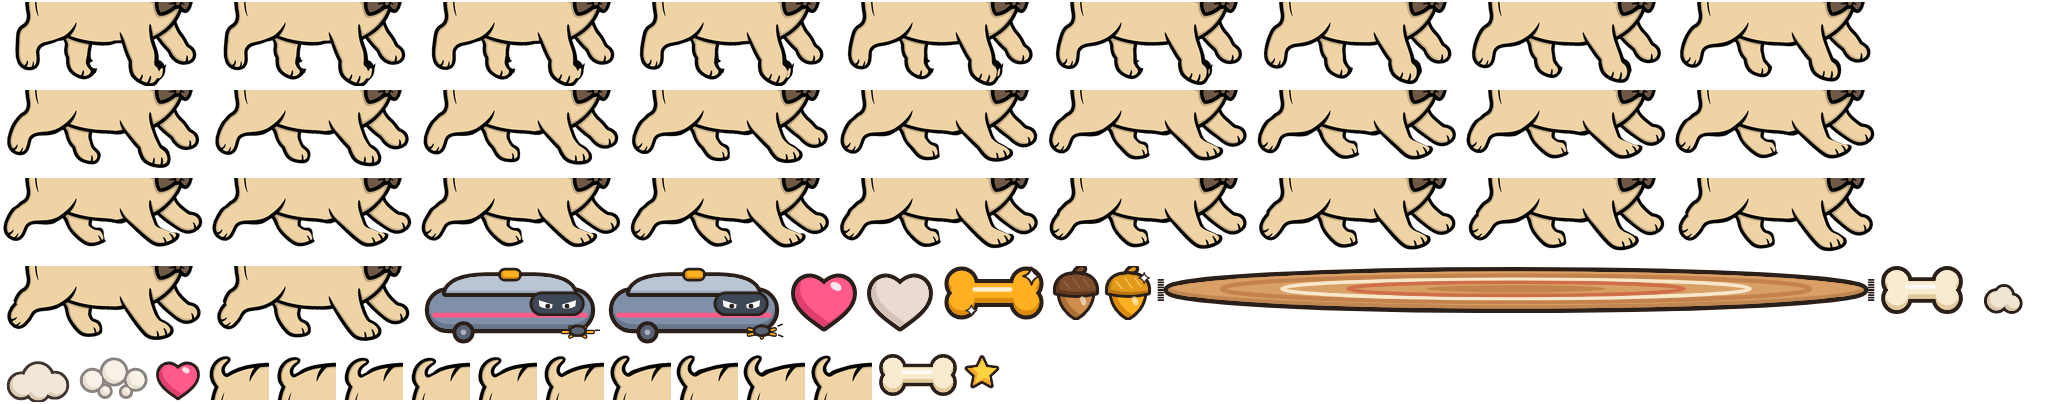
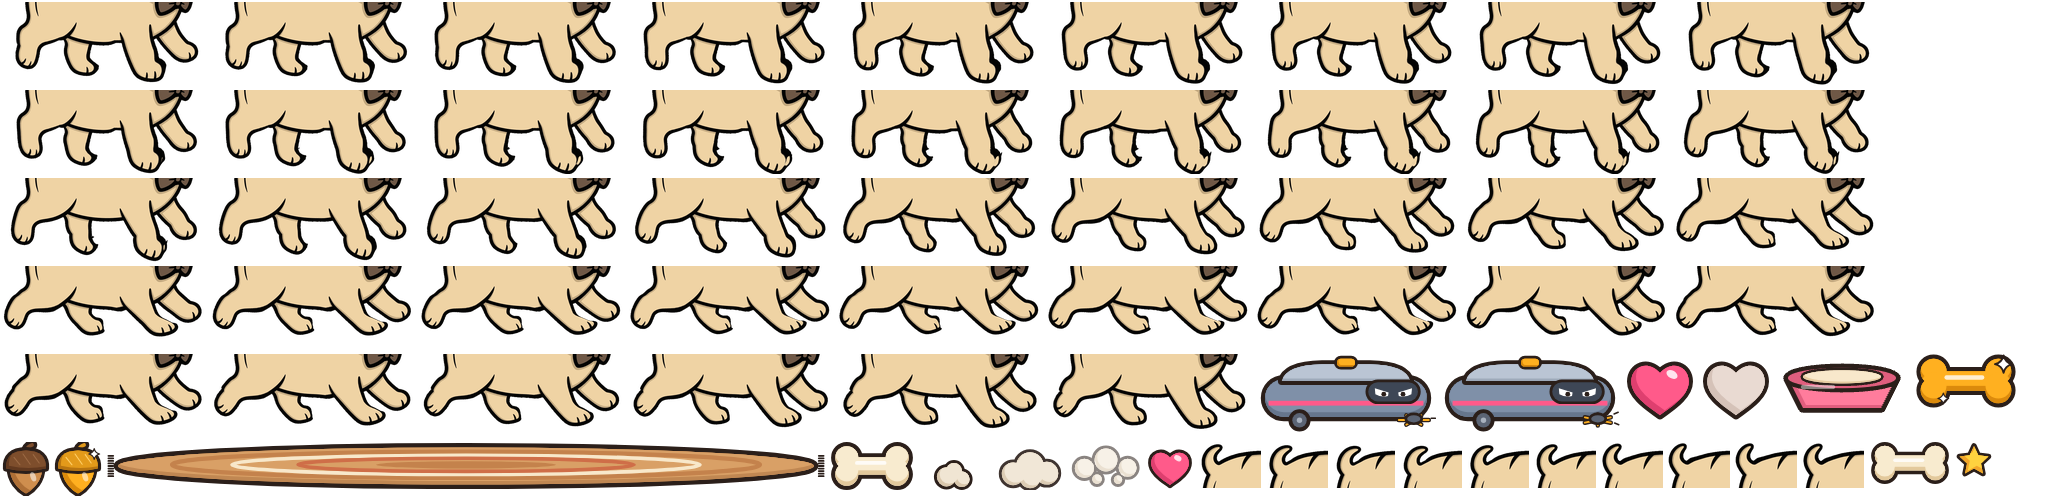
Add Chapter 2, The Kitchen, with counters, stools, a fridge to climb and Chef Nutsy.

diff --git a/tools/gen_sprites.js b/tools/gen_sprites.js
@@ -883,6 +883,71 @@ function wagon() {
   return g;
 }
 
+// ---------------------------------------------------------------- kitchen (Chapter 2)
+const K = { cab: '#5FB7A8', cabS: '#43978A', counterTop: '#F2E4C8', counterTopS: '#D9C7A2', steel: '#C9D3DC', steelS: '#A3B0BC', tile: '#F4EBDD', tileS: '#DCCDB8', tile2: '#D6B48E', bowl: '#FF7C9C', bowlS: '#E05E7E' };
+
+// A kitchen counter: a pale stone top on teal cabinets with two doors and brass knobs.
+function kitchenCounter(top) {
+  let g = '';
+  const y0 = 72 - top + X.O;
+  g += blob(R(4, y0 + 8, 152, 60, 2), K.cab, K.cabS, { O: 2.2, so: 1.8, off: [1.6, -1.8] });
+  g += `<path d="M80 ${y0 + 12} L80 ${y0 + 64}" stroke="${OUT}" stroke-width="1.6"/>`;
+  g += `<path d="M14 ${y0 + 16} L70 ${y0 + 16} L70 ${y0 + 60} L14 ${y0 + 60} Z M90 ${y0 + 16} L146 ${y0 + 16} L146 ${y0 + 60} L90 ${y0 + 60} Z" fill="none" stroke="${K.cabS}" stroke-width="1.4" stroke-linejoin="round"/>`;
+  g += blob(Ci(64, y0 + 38, 2.6), C.brass, C.brassS, { O: 1, so: 0.5 }) + blob(Ci(96, y0 + 38, 2.6), C.brass, C.brassS, { O: 1, so: 0.5 });
+  g += blob(R(0, y0, 160, 10, 3), K.counterTop, K.counterTopS, { O: 2.2, so: 1.4, off: [0, -2] });
+  g += `<path d="M10 ${y0 + 3} L80 ${y0 + 3}" stroke="${WH}" stroke-opacity="0.5" stroke-width="1.6" stroke-linecap="round"/>`;
+  return g;
+}
+
+// A wooden stool, lower than the counter: the first step up.
+function stool(top) {
+  let g = '';
+  const y0 = 60 - top + X.O;
+  g += strokes([`M12 ${y0 + 8} L8 58`, `M44 ${y0 + 8} L48 58`, `M28 ${y0 + 8} L28 58`], 4.2, C.wood, { O: 1.4 });
+  g += strokes([`M10 40 L46 40`], 2.6, C.woodS, { O: 1 });
+  g += blob(E(28, y0 + 5, 25, 5), C.wood, C.woodS, { O: 2, so: 1.2, off: [0, -1.4] });
+  g += `<path d="M14 ${y0 + 3} L36 ${y0 + 3}" stroke="${WH}" stroke-opacity="0.4" stroke-width="1.4" stroke-linecap="round"/>`;
+  return g;
+}
+
+// A tall fridge the dog cannot run through; its top is a high shelf to reach by stool and counter.
+function fridge(top) {
+  let g = '';
+  const y0 = 160 - top + X.O;
+  g += blob(R(4, y0, 82, 156, 5), K.steel, K.steelS, { O: 2.4, so: 2, off: [2, -2] });
+  g += `<path d="M8 ${y0 + 52} L82 ${y0 + 52}" stroke="${OUT}" stroke-width="1.8"/>`;
+  g += strokes([`M70 ${y0 + 14} L70 ${y0 + 42}`, `M70 ${y0 + 62} L70 ${y0 + 120}`], 3.6, K.steelS, { O: 1.2 });
+  g += `<path d="M12 ${y0 + 6} L12 ${y0 + 44}" stroke="${WH}" stroke-opacity="0.55" stroke-width="2" stroke-linecap="round"/>`;
+  // A couple of paw magnets and a party note.
+  g += blob(R(22, y0 + 70, 22, 16, 2), C.gold, C.goldS, { O: 1.2, so: 0.8 });
+  g += `<path d="M26 ${y0 + 75} L40 ${y0 + 75} M26 ${y0 + 80} L36 ${y0 + 80}" stroke="${OUT}" stroke-width="1" stroke-linecap="round"/>`;
+  g += blob(Ci(50, y0 + 96, 4), C.gum, C.gumS, { O: 1, so: 0.5 }) + blob(Ci(30, y0 + 104, 3.4), C.sky, C.skyS, { O: 1, so: 0.5 });
+  return g;
+}
+
+// The pup's bowl, a decoration on the floor.
+function dogBowl() {
+  let g = '';
+  g += blob(P('M4 8 L40 8 L35 18 L9 18 Z'), K.bowl, K.bowlS, { O: 1.6, so: 1, off: [1, -1] });
+  g += blob(E(22, 8, 18, 3.4), K.bowlS, null, { O: 1.4 });
+  g += blob(E(22, 7.6, 13, 2.2), C.cream, C.creamS, { O: 0.9, so: 0.6 });
+  g += `<path d="M9 11 L19 11" stroke="${WH}" stroke-opacity="0.45" stroke-width="1.4" stroke-linecap="round"/>`;
+  return g;
+}
+
+// Checkerboard kitchen tiles, one 128-unit strip that repeats.
+function floorKitchen() {
+  let g = blob(R(0, 0, 128, 40), K.tile, null, { O: 0 });
+  for (let i = 0; i < 4; i++) {
+    const x = i * 32;
+    g += `<rect x="${x}" y="0" width="16" height="16" fill="${K.tile2}"/><rect x="${x + 16}" y="16" width="16" height="16" fill="${K.tile2}"/>`;
+    g += `<rect x="${x}" y="32" width="16" height="8" fill="${K.tile2}"/>`;
+  }
+  g += `<path d="M0 0 L128 0" stroke="${OUT}" stroke-width="3"/>`;
+  g += `<g stroke="${K.tileS}" stroke-width="0.8">${[16, 32, 48, 64, 80, 96, 112].map((x) => `<path d="M${x} 0 L${x} 40"/>`).join('')}<path d="M0 16 L128 16 M0 32 L128 32"/></g>`;
+  return g;
+}
+
 // ---------------------------------------------------------------- registry
 const S = {};
 const add = (name, W, H, O, fn, top) => (S[name] = { W, H, O, fn, top });
@@ -935,6 +1000,11 @@ add('heart_full', 24, 22, 1.4, () => blob(P(heartPath(12, 11.6, 9.6)), C.gum, C.
 add('heart_empty', 24, 22, 1.4, () => blob(P(heartPath(12, 11.6, 9.6)), '#E9DAD2', '#D5C2B8', { so: 1.6 }));
 add('bone_icon', 28, 16, 1.4, () => bone(28, 16, false, 1.4));
 add('wagon', 96, 44, 2, () => wagon());
+add('kitchen_counter', 160, 72, 2.2, () => kitchenCounter(70), 70);
+add('stool', 56, 60, 2, () => stool(58), 58);
+add('fridge', 90, 160, 2.4, () => fridge(158), 158);
+add('dog_bowl', 44, 20, 1.6, () => dogBowl());
+add('floor_kitchen', 128, 40, 1.6, () => floorKitchen(), 40);
 
 const only = process.argv.slice(2);
 const dir = path.resolve(__dirname, '..', 'art', 'svg');

diff --git a/src/game/level/chapter2.ts b/src/game/level/chapter2.ts
@@ -1,0 +1,119 @@
+import type { LevelDef } from './types';
+
+// Chapter 2: The Kitchen.
+// The Nutsy Gang went for the party snacks next. Counters, stools and the fridge make a
+// staircase up high, the robot vacuum patrols the tiles, and the gang's cook is waiting at the end.
+//
+// Reach guide at runSpeed 320: a single jump clears about 200 units of pit and 130 high;
+// a double jump clears about 350 and 230 high. Counter tops are 70 high, stools 58, the fridge 158.
+
+const bones = (x0: number, n: number, gap: number, y = 18) =>
+  Array.from({ length: n }, (_, i) => ({ kind: 'bone' as const, x: x0 + i * gap, y }));
+
+const arc = (x0: number, n: number, gap: number, base: number, rise: number) =>
+  Array.from({ length: n }, (_, i) => {
+    const k = n === 1 ? 0.5 : i / (n - 1);
+    return { kind: 'bone' as const, x: x0 + i * gap, y: base + Math.sin(k * Math.PI) * rise };
+  });
+
+export const CHAPTER_2: LevelDef = {
+  id: 'ch2',
+  chapter: 2,
+  title: 'The Kitchen',
+  subtitle: 'Snack attack!',
+  winTitle: 'Snacks saved!',
+  background: 'room_kitchen',
+  floor: 'floor_kitchen',
+  music: 'music_living',
+  runSpeed: 320,
+  floorSegments: [
+    [-600, 1700],
+    [1880, 3500],
+    [3720, 5200],
+    [5440, 6900],
+    [7120, 20000],
+  ],
+  platforms: [
+    // Warm-up: stool, counter, stool.
+    { sprite: 'stool', x: 600 },
+    { sprite: 'kitchen_counter', x: 820 },
+    { sprite: 'stool', x: 1150 },
+    // First pit: counters on both sides.
+    { sprite: 'kitchen_counter', x: 1500 },
+    { sprite: 'kitchen_counter', x: 1920 },
+    // The fridge climb: stool, counter, fridge top with a golden bone.
+    { sprite: 'stool', x: 2500 },
+    { sprite: 'kitchen_counter', x: 2700 },
+    { sprite: 'fridge', x: 2940, solid: true },
+    { sprite: 'kitchen_counter', x: 3150 },
+    // Second pit and the vacuum run.
+    { sprite: 'stool', x: 3800 },
+    { sprite: 'kitchen_counter', x: 4300 },
+    { sprite: 'stool', x: 4700 },
+    { sprite: 'fridge', x: 4960, solid: true },
+    // Last stretch: counters and a stool before the boss.
+    { sprite: 'kitchen_counter', x: 5600 },
+    { sprite: 'stool', x: 6000 },
+    { sprite: 'kitchen_counter', x: 6300 },
+    { sprite: 'stool', x: 6700 },
+    { sprite: 'kitchen_counter', x: 7300 },
+  ],
+  enemies: [
+    { type: 'runner', x: 1300 },
+    { type: 'thrower', x: 1990, y: 70, every: 1.7 },
+    { type: 'runner', x: 2300, speed: 120 },
+    { type: 'cat', x: 2755, y: 70 },
+    { type: 'runner', x: 3300, speed: 140 },
+    { type: 'vacuum', x0: 3900, x1: 4250, speed: 100 },
+    { type: 'thrower', x: 4380, y: 70, every: 1.5 },
+    { type: 'runner', x: 4600 },
+    { type: 'vacuum', x0: 5500, x1: 5900, speed: 120 },
+    { type: 'thrower', x: 6380, y: 70, every: 1.4 },
+    { type: 'runner', x: 6850, speed: 150 },
+    { type: 'runner', x: 7500, speed: 160 },
+  ],
+  pickups: [
+    ...bones(250, 4, 50),
+    ...arc(600, 3, 40, 80, 30),
+    ...bones(850, 4, 50, 90),
+    ...arc(1700, 4, 50, 30, 120),
+    ...bones(1940, 3, 50, 90),
+    { kind: 'bone_gold', x: 2985, y: 180 },
+    ...bones(3170, 3, 50, 90),
+    ...arc(3500, 4, 55, 30, 110),
+    { kind: 'present', x: 4380, y: 150 },
+    ...bones(4320, 3, 50, 90),
+    ...arc(5200, 4, 60, 30, 120),
+    { kind: 'bone_gold', x: 5005, y: 180 },
+    ...bones(5630, 4, 50, 90),
+    ...arc(6900, 4, 60, 30, 120),
+    { kind: 'bone_gold', x: 6720, y: 140 },
+    ...bones(7330, 4, 50, 90),
+  ],
+  cages: [
+    { x: 1990, y: 70, dog: 'golden' },
+    { x: 4300, y: 70, dog: 'dachshund' },
+    { x: 6600, dog: 'collie' },
+  ],
+  checkpoints: [1900, 3750, 5460, 7150],
+  callouts: [
+    { x: 150, coach: 'leo', text: 'The snacks went this way. Up the stools!' },
+    { x: 1350, coach: 'maya', text: 'Squirrel on the tiles. Bounce it!' },
+    { x: 2450, coach: 'hana', text: 'Stool, counter, fridge: climb for the golden bone!' },
+    { x: 3850, coach: 'alex', text: 'The robot vacuum! Jump on it to bounce high.' },
+    { x: 5450, coach: 'maya', text: 'Slide under the acorns, then zoom!' },
+    { x: 7150, coach: 'leo', text: 'The cook is up ahead. Bark the golden acorns back!' },
+  ],
+  decor: [
+    { sprite: 'dog_bowl', x: 180 },
+    { sprite: 'potted_plant', x: 1380 },
+    { sprite: 'dog_bowl', x: 2250 },
+    { sprite: 'potted_plant', x: 3650 },
+    { sprite: 'dog_bowl', x: 4620 },
+    { sprite: 'potted_plant', x: 5300 },
+    { sprite: 'dog_bowl', x: 6150 },
+    { sprite: 'potted_plant', x: 7050 },
+  ],
+  boss: { x: 8000, name: 'Chef Nutsy', hits: 4 },
+  finishX: 9200,
+};

diff --git a/src/game/sim/__tests__/world.test.ts b/src/game/sim/__tests__/world.test.ts
@@ -1,4 +1,5 @@
 import { CHAPTER_1 } from '../../level/chapter1';
+import { CHAPTER_2 } from '../../level/chapter2';
 import type { LevelDef } from '../../level/types';
 import { HERO_BOX, PHYS } from '../../constants';
 import { createWorld, drainEvents, groundBelow, levelResult, stepWorld } from '../world';
@@ -208,6 +209,9 @@ describe('Chapter 1', () => {
       // Second jump if we are falling toward a pit.
       const below = look(40);
       if (h.vy < 0 && h.jumpsUsed === 1 && (below === null || below < h.y - 150)) return press;
+      // Second jump when a tall solid piece (the fridge) is still above us.
+      const wall = w.platforms.some((p) => p.solid && p.x - h.x > -10 && p.x - h.x < 120 && p.top > h.y + 10);
+      if (h.vy < 60 && h.jumpsUsed === 1 && wall) return press;
       return hold;
     }
     // Jump for pits, solid boxes, vacuums, blocks and higher furniture.
@@ -233,5 +237,17 @@ describe('Chapter 1', () => {
     console.log(`phase=${w.phase} maxX=${Math.round(maxX)} hurt=${w.hurtCount} bones=${r.bones}/${r.bonesTotal} gold=${r.goldBones}/${r.goldTotal} friends=${r.rescued}/${r.rescueTotal}`);
     expect(w.phase).toBe('won');
     expect(PHYS.gravity).toBeGreaterThan(0);
+  });
+
+  it('the autopilot can reach the Chapter 2 boss and win', () => {
+    const w = createWorld(CHAPTER_2, 640, 7);
+    let maxX = 0;
+    for (let i = 0; i < 60 * 120 && w.phase !== 'won' && w.phase !== 'dead'; i++) {
+      stepWorld(w, autopilot(w), DT);
+      maxX = Math.max(maxX, w.hero.x);
+    }
+    const r = levelResult(w);
+    console.log(`ch2 phase=${w.phase} maxX=${Math.round(maxX)} hurt=${w.hurtCount} bones=${r.bones}/${r.bonesTotal} gold=${r.goldBones}/${r.goldTotal} friends=${r.rescued}/${r.rescueTotal}`);
+    expect(w.phase).toBe('won');
   });
 });

diff --git a/src/game/story.ts b/src/game/story.ts
@@ -3,6 +3,7 @@ import type { DogId } from './sprites';
 
 /** The hero. The Dog Better pup; rename here if the pup has an official name. */
 export const HERO_NAME = 'Pup';
+/** Chapter 1's boss; later chapters name theirs in their LevelDef. */
 export const BOSS_NAME = 'Big Nutsy';
 
 export const DOG_NAMES: Record<DogId, string> = {
@@ -118,3 +119,47 @@ export const CH1_OUTRO: StoryPanel[] = [
 ];
 
 STORIES.ch1 = { intro: CH1_INTRO, outro: CH1_OUTRO };
+
+export const CH2_INTRO: StoryPanel[] = [
+  {
+    room: 'room_kitchen',
+    speaker: 'Leo',
+    text: 'The cake is back, but the kitchen is a mess. Where did the party snacks go?',
+    left: { kind: 'coach', id: 'leo' },
+    right: { kind: 'dog', id: 'golden' },
+  },
+  {
+    room: 'room_kitchen',
+    slam: true,
+    speaker: 'Chef Nutsy',
+    text: "Snacks? MY snacks! And I've got three more pups up on the counter!",
+    left: { kind: 'boss' },
+    right: { kind: 'cage', dog: 'golden' },
+  },
+  {
+    room: 'room_kitchen',
+    speaker: 'Hana',
+    text: 'Biscuit, Noodle and Scout! Pup, the stools are your stairs. Go get them!',
+    left: { kind: 'coach', id: 'hana' },
+    right: { kind: 'pup', pose: 'bark' },
+  },
+];
+
+export const CH2_OUTRO: StoryPanel[] = [
+  {
+    room: 'room_kitchen',
+    speaker: 'Chef Nutsy',
+    text: 'Fine! Keep your crumbs. The Gang will be back for the garden!',
+    left: { kind: 'boss' },
+    right: { kind: 'pup', pose: 'bark' },
+  },
+  {
+    room: 'room_kitchen',
+    speaker: 'Maya',
+    text: `Snacks saved, pups in the wagon. ${HERO_NAME}, you are the hero of this party.`,
+    left: { kind: 'coach', id: 'maya' },
+    right: { kind: 'dog', id: 'golden' },
+  },
+];
+
+STORIES.ch2 = { intro: CH2_INTRO, outro: CH2_OUTRO };

diff --git a/src/game/render/buildFrame.ts b/src/game/render/buildFrame.ts
@@ -155,20 +155,22 @@ export function buildFrame(world: World, setup: FrameSetup, out = new OpList()):
 
   // Floor: a dark pit everywhere, wood floor over each segment.
   out.push(RECT, 0, 0, 0, 0, screenW / 2, (sy(0) + screenH) / 2 + 2 * k, screenW + 40, screenH - sy(0) + 20 * k, 0, 1, PIT);
-  const tile = SPRITES.floor_living.w;
+  const floorSprite = world.level.floor;
+  const floorSize = SPRITES[floorSprite];
+  const tile = floorSize.w;
   for (const [a, b] of world.floor) {
     const x0 = Math.max(a, viewL);
     const x1 = Math.min(b, viewR);
     if (x1 <= x0) continue;
-    rect((x0 + x1) / 2, -SPRITES.floor_living.h / 2 - 30, x1 - x0, 60, FLOOR_FILL);
+    rect((x0 + x1) / 2, -floorSize.h / 2 - 30, x1 - x0, 60, FLOOR_FILL);
     const first = Math.floor((x0 - a) / tile) * tile + a;
     for (let x = first; x < x1; x += tile) {
       const w = Math.min(tile, b - x);
-      const f = atlas.frames.floor_living;
+      const f = atlas.frames[floorSprite];
       if (!f) continue;
       const share = w / tile;
-      const cy = -SPRITES.floor_living.h / 2;
-      out.push(f[0], f[1], f[2], f[3] * share, f[4], sx(x + w / 2), sy(cy), w * k, SPRITES.floor_living.h * k, 0, 1, 0, sxPrev(x + w / 2), syPrev(cy));
+      const cy = -floorSize.h / 2;
+      out.push(f[0], f[1], f[2], f[3] * share, f[4], sx(x + w / 2), sy(cy), w * k, floorSize.h * k, 0, 1, 0, sxPrev(x + w / 2), syPrev(cy));
     }
     // Ink edge on pit lips.
     rect(a + 2, -20, 4, 40, COCOA, 0.8);

diff --git a/src/game/GameView.tsx b/src/game/GameView.tsx
@@ -208,7 +208,7 @@ export function GameView({ level, boosts = NO_BOOSTS, onWin, onQuit, startX }: P
             break;
           case 'boss_start':
             setBoss({ hits: 0, needed: world.boss?.hitsNeeded ?? 3 });
-            showBanner(BOSS_NAME.toUpperCase() + '!');
+            showBanner((level.boss?.name ?? BOSS_NAME).toUpperCase() + '!');
             break;
           case 'boss_hit':
             setBoss({ hits: e.hits, needed: e.needed });
@@ -232,7 +232,7 @@ export function GameView({ level, boosts = NO_BOOSTS, onWin, onQuit, startX }: P
         }
       }
     },
-    [onWin, setRun, showBanner, showCallout, world],
+    [level.boss?.name, onWin, setRun, showBanner, showCallout, world],
   );
 
   // The game loop: fixed 60 Hz steps on the JS thread, then one frame of draw ops for the UI thread.
@@ -429,7 +429,7 @@ export function GameView({ level, boosts = NO_BOOSTS, onWin, onQuit, startX }: P
         <Animated.View entering={FadeIn} pointerEvents="none" style={[styles.bossBar, { bottom: 14 }]}>
           <Image source={HUD.cake} style={styles.bossCake} />
           <View>
-            <Text style={styles.bossName}>{BOSS_NAME}</Text>
+            <Text style={styles.bossName}>{level.boss?.name ?? BOSS_NAME}</Text>
             <View style={styles.hudRow}>
               {Array.from({ length: boss.needed }, (_, i) => (
                 <View key={i} style={[styles.pip, i < boss.needed - boss.hits ? styles.pipFull : null]} />

diff --git a/src/game/render/followers.ts b/src/game/render/followers.ts
@@ -51,8 +51,8 @@ function smooth(u: number) {
 
 export function followerDraws(world: World, t: number): FollowerDraws {
   const out: FollowerDraws = { sprites: [], ropes: [] };
-  const trail = world.trail;
-  if (trail.length === 0) return out;
+  // Before the first step the trail is empty: the wagon starts right behind the dog.
+  const trail = world.trail.length ? world.trail : [{ x: world.hero.x, y: world.hero.y }];
   const at = (i: number) => trail[Math.max(0, Math.min(trail.length - 1, i))];
 
   // The wagon follows the trail, tips with the ground and bounces a little on its wheels.

diff --git a/src/game/level/chapter1.ts b/src/game/level/chapter1.ts
@@ -1,3 +1,4 @@
+import { CHAPTER_2 } from './chapter2';
 import type { LevelDef } from './types';
 
 // Chapter 1: The Living Room.
@@ -121,7 +122,7 @@ export const CHAPTER_1: LevelDef = {
   finishX: 9000,
 };
 
-export const LEVELS: LevelDef[] = [CHAPTER_1];
+export const LEVELS: LevelDef[] = [CHAPTER_1, CHAPTER_2];
 export const CHAPTER_IDS = LEVELS.map((l) => l.id);
 
 export function levelById(id: string | undefined): LevelDef | undefined {

diff --git a/src/game/sprites.ts b/src/game/sprites.ts
@@ -97,6 +97,13 @@ export const SPRITES = {
   // The wagon the freed pups ride in
   wagon: { w: 96, h: 44 },
 
+  // Kitchen (Chapter 2)
+  kitchen_counter: { w: 160, h: 72, top: 70 },
+  stool: { w: 56, h: 60, top: 58 },
+  fridge: { w: 90, h: 160, top: 158 },
+  dog_bowl: { w: 44, h: 20 },
+  floor_kitchen: { w: 128, h: 40 },
+
   // Effects and UI
   dust_0: { w: 24, h: 16 },
   dust_1: { w: 24, h: 16 },

diff --git a/PLAN.md b/PLAN.md
@@ -131,6 +131,11 @@ Files: `src/game/level/*`, `src/game/story.ts`, `src/app/*`, new `src/lib/progre
 4. Chapter 2 "The Kitchen" level data on the existing `room_kitchen` art, reusing the living room sprite set plus the stolen-snacks story beat already written in `CH1_OUTRO`.
    New kitchen props would be new art; the first cut uses what exists and marks props that need drawings for Alex.
 
+**Status 2026-10-12: 4a items 1, 2 and 4 done.**
+`src/engine/progress.ts` (rules, 8 tests), `src/lib/progress.ts` (AsyncStorage store with `useProgress`), `GameView` `RunState` with the Ready/Go count-in, chapter-aware `play`, `results`, `story` and title.
+Chapter 2 "The Kitchen" is in `src/game/level/chapter2.ts` with new props (counter, stool, fridge, bowl, checker floor) drawn in `tools/gen_sprites.js`; the test autopilot clears it.
+Item 3 (Chapter 1 secret rooms) is still open; the chapter map and shop wait for the 4b pick.
+
 ### 4b. Metagame screens (Alex picks a direction)
 
 Render 3 distinct directions in the chat as phone-size images, each with the real pup and breed art, before building:
